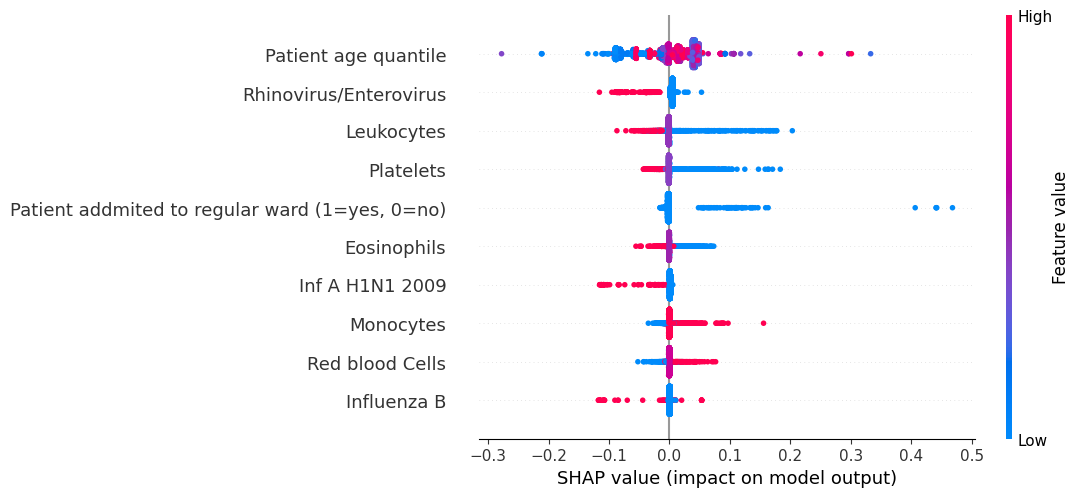
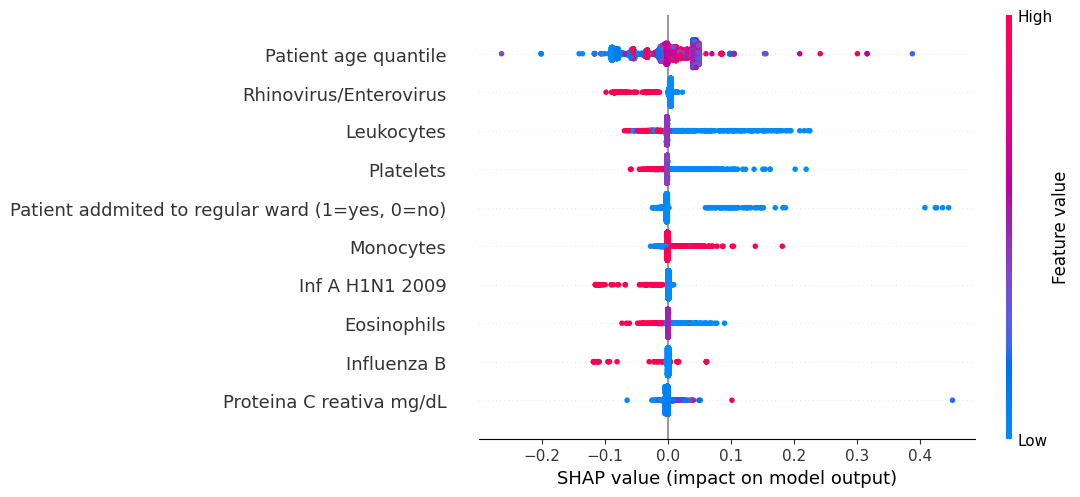
resolvendo '<1000'

diff --git a/questao1_ana_marcella.py b/questao1_ana_marcella.py
@@ -11,6 +11,7 @@
 
 import pandas as pd
 import numpy as np
+import random
 
 #Importação dos dados obtidos na planilha baixada do keggel
 dataset = pd.read_excel(r'dataset.xlsx')
@@ -25,47 +26,15 @@ dataset= dataset.replace(['absent'], float(0))
 dataset= dataset.replace(['present'], float(1))
 dataset = dataset.replace(['normal'], float(0))
 dataset = dataset.replace(['Não Realizado'], float(-1))
+dataset = dataset.replace(['<1000'], float(random.uniform(0,999)))
 
 
 #Preenchimento de valores vazios
 dataset=dataset.fillna(dataset.median ())
 
-# print(dataset["Lipase dosage"].unique())
+print(dataset["Urine - Leukocytes"].unique())
 
 #Setando valores de Feature set (conjunto de variáveis) e labels
-# X = dataset.loc[:, ["Hemoglobin", "Red blood Cells", "Lymphocytes", "Proteina C reativa mg/dL", "Alanine transaminase", "Aspartate transaminase", "Lactic Dehydrogenase", "Albumin", "Hb saturation (arterial blood gases)", "pCO2 (arterial blood gas analysis)"]]
-# X = dataset.loc[:, ["Patient age quantile", "Patient addmited to regular ward (1=yes, 0=no)", "Patient addmited to semi-intensive unit (1=yes, 0=no)", "Patient addmited to intensive care unit (1=yes, 0=no)", "Hematocrit", "Hemoglobin", "Platelets", "Mean platelet volume ", "Red blood Cells", "Lymphocytes"]]
-# X = dataset.loc[:, ["Mean corpuscular hemoglobin concentration (MCHC)", "Leukocytes", "Basophils", "Mean corpuscular hemoglobin (MCH)", "Eosinophils", "Mean corpuscular volume (MCV)", "Monocytes", "Red blood cell distribution width (RDW)", "Serum Glucose", "Respiratory Syncytial Virus"]]
-# X = dataset.loc[:, ["Influenza A", "Influenza B", "Parainfluenza 1", "CoronavirusNL63", "Rhinovirus/Enterovirus", "Mycoplasma pneumoniae", "Coronavirus HKU1", "Parainfluenza 3", "Chlamydophila pneumoniae", "Adenovirus"]]    # ERRO
-# X = dataset.loc[:, ["Parainfluenza 4", "Coronavirus229E", "CoronavirusOC43", "Inf A H1N1 2009", "Bordetella pertussis", "Metapneumovirus", "Parainfluenza 2", "Neutrophils", "Urea", "Proteina C reativa mg/dL"]]
-# X = dataset.loc[:, ["Creatinine", "Potassium", "Sodium", "Influenza B, rapid test", "Influenza A, rapid test", "Alanine transaminase", "Aspartate transaminase", "Gamma-glutamyltransferase ", "Total Bilirubin", "Direct Bilirubin"]]
-# X = dataset.loc[:, ["Indirect Bilirubin", "Alkaline phosphatase", "Ionized calcium ", "Strepto A", "Magnesium", "pCO2 (venous blood gas analysis)", "Hb saturation (venous blood gas analysis)", "Base excess (venous blood gas analysis)", "pO2 (venous blood gas analysis)", "Fio2 (venous blood gas analysis)"]]
-# X = dataset.loc[:, ["Total CO2 (venous blood gas analysis)", "pH (venous blood gas analysis)", "HCO3 (venous blood gas analysis)", "Rods #", "Segmented", "Promyelocytes", "Metamyelocytes", "Myelocytes", "Myeloblasts", "Urine - Esterase"]]
-# X = dataset.loc[:, ["Urine - Aspect", "Urine - pH", "Urine - Hemoglobin", "Urine - Bile pigments", "Urine - Ketone Bodies", "Urine - Nitrite", "Urine - Density", "Urine - Urobilinogen", "Urine - Protein", "Urine - Sugar"]]
-# X = dataset.loc[:, ["Urine - Leukocytes", "Urine - Crystals", "Urine - Red blood cells", "Urine - Hyaline cylinders", "Urine - Granular cylinders", "Urine - Yeasts", "Urine - Color", "Partial thromboplastin time (PTT) ", "Relationship (Patient/Normal)", "International normalized ratio (INR)"]]
-# X = dataset.loc[:, ["Lactic Dehydrogenase", "Prothrombin time (PT), Activity", "Vitamin B12", "Creatine phosphokinase (CPK) ", "Ferritin", "Arterial Lactic Acid", "Lipase dosage", "D-Dimer", "Albumin", "Hb saturation (arterial blood gases)"]]
-# X = dataset.loc[:, ["pCO2 (arterial blood gas analysis)", "Base excess (arterial blood gas analysis)", "pH (arterial blood gas analysis)", "Total CO2 (arterial blood gas analysis)", "HCO3 (arterial blood gas analysis)", "pO2 (arterial blood gas analysis)", "Arteiral Fio2", "Phosphor", "ctO2 (arterial blood gas analysis)"]]
-# X = dataset.loc[:, ["Neutrophils", "Urea", "Proteina C reativa mg/dL", "Creatinine", "Potassium", "Sodium", "Alanine transaminase", "Aspartate transaminase", "Gamma-glutamyltransferase ", "Total Bilirubin"]]
-# X = dataset.loc[:, ["Mean corpuscular hemoglobin concentration (MCHC)", "Leukocytes", "Basophils", "Mean corpuscular hemoglobin (MCH)", "Eosinophils", "Mean corpuscular volume (MCV)", "Monocytes", "Red blood cell distribution width (RDW)", "Serum Glucose", "pCO2 (arterial blood gas analysis)"]]
-# X = dataset.loc[:, ["Patient age quantile", "Patient addmited to semi-intensive unit (1=yes, 0=no)", "Patient addmited to intensive care unit (1=yes, 0=no)", "Hematocrit", "Hemoglobin", "Platelets", "Mean platelet volume ", "Red blood Cells", "Lymphocytes", "Indirect Bilirubin", "Alkaline phosphatase"]]
-# X = dataset.loc[:, ["Ionized calcium ", "Magnesium", "pCO2 (venous blood gas analysis)", "Hb saturation (venous blood gas analysis)", "Base excess (venous blood gas analysis)", "pO2 (venous blood gas analysis)", "Base excess (arterial blood gas analysis)", "pH (arterial blood gas analysis)", "Total CO2 (arterial blood gas analysis)", "HCO3 (arterial blood gas analysis)"]]
-# X = dataset.loc[:, ["pO2 (arterial blood gas analysis)", "ctO2 (arterial blood gas analysis)", "Neutrophils", "Urea", "Proteina C reativa mg/dL", "Creatinine", "Potassium", "Sodium", "Alanine transaminase", "Aspartate transaminase"]]
-# X = dataset.loc[:, ["Mean corpuscular hemoglobin concentration (MCHC)", "Leukocytes", "Basophils", "Mean corpuscular hemoglobin (MCH)", "Eosinophils", "Mean corpuscular volume (MCV)", "Monocytes", "Red blood cell distribution width (RDW)", "Gamma-glutamyltransferase ", "Total Bilirubin"]]
-# X = dataset.loc[:, ["Ionized calcium ", "Magnesium", "pCO2 (venous blood gas analysis)", "Hb saturation (venous blood gas analysis)", "Base excess (venous blood gas analysis)", "pO2 (venous blood gas analysis)", "pH (arterial blood gas analysis)", "Total CO2 (arterial blood gas analysis)", "HCO3 (arterial blood gas analysis)", "Aspartate transaminase"]]
-# X = dataset.loc[:, ["ctO2 (arterial blood gas analysis)", "Neutrophils", "pCO2 (venous blood gas analysis)", "Hb saturation (venous blood gas analysis)", "Base excess (venous blood gas analysis)", "pO2 (venous blood gas analysis)", "pH (arterial blood gas analysis)", "Total CO2 (arterial blood gas analysis)", "HCO3 (arterial blood gas analysis)", "Aspartate transaminase"]]
-# X = dataset.loc[:, ["Urea", "ctO2 (arterial blood gas analysis)", "Neutrophils", "pCO2 (venous blood gas analysis)", "Hb saturation (venous blood gas analysis)", "Base excess (venous blood gas analysis)", "pO2 (venous blood gas analysis)", "pH (arterial blood gas analysis)", "Total CO2 (arterial blood gas analysis)", "Aspartate transaminase"]]
-# X = dataset.loc[:, ["Proteina C reativa mg/dL", "Urea", "ctO2 (arterial blood gas analysis)", "Neutrophils", "pCO2 (venous blood gas analysis)", "Hb saturation (venous blood gas analysis)", "Base excess (venous blood gas analysis)", "pH (arterial blood gas analysis)", "Total CO2 (arterial blood gas analysis)", "Aspartate transaminase"]]
-# X = dataset.loc[:, ["Hemoglobin", "Red blood Cells", "Lymphocytes", "Proteina C reativa mg/dL", "Alanine transaminase", "Aspartate transaminase", "Lactic Dehydrogenase", "Hb saturation (arterial blood gases)", "Creatinine", "Potassium"]]
-# X = dataset.loc[:, ["Sodium", "Hemoglobin", "Red blood Cells", "Lymphocytes", "Proteina C reativa mg/dL", "Alanine transaminase", "Aspartate transaminase", "Hb saturation (arterial blood gases)", "Creatinine", "Potassium"]]
-# X = dataset.loc[:, ["Mean corpuscular hemoglobin concentration (MCHC)", "Leukocytes", "Basophils", "Mean corpuscular hemoglobin (MCH)", "Eosinophils", "Hb saturation (venous blood gas analysis)", "Base excess (venous blood gas analysis)", "pH (arterial blood gas analysis)", "Total CO2 (arterial blood gas analysis)", "Aspartate transaminase"]]
-# X = dataset.loc[:, ["Proteina C reativa mg/dL", "Urea", "ctO2 (arterial blood gas analysis)", "Neutrophils", "pCO2 (venous blood gas analysis)", "Mean corpuscular volume (MCV)", "Monocytes", "Red blood cell distribution width (RDW)", "Gamma-glutamyltransferase ", "Total Bilirubin"]]
-# X = dataset.loc[:, ["Alanine transaminase", "Hemoglobin", "Red blood Cells", "Lymphocytes", "Proteina C reativa mg/dL", "Platelets", "Mean platelet volume ", "Red blood Cells", "Lymphocytes", "Alkaline phosphatase"]]
-# X = dataset.loc[:, ["Sodium", "Alanine transaminase", "Hemoglobin", "Red blood Cells", "Lymphocytes", "Proteina C reativa mg/dL", "Platelets", "Mean platelet volume ", "Red blood Cells", "Lymphocytes"]]
-# X = dataset.loc[:, ["Patient age quantile", "Patient addmited to semi-intensive unit (1=yes, 0=no)", "Patient addmited to intensive care unit (1=yes, 0=no)", "Hematocrit", "Hemoglobin", "Alanine transaminase", "Aspartate transaminase", "Hb saturation (arterial blood gases)", "Creatinine", "Potassium"]]
-# X = dataset.loc[:, ["Patient age quantile", "Hematocrit", "Proteina C reativa mg/dL", "Platelets", "Proteina C reativa mg/dL", "Red blood Cells", "Monocytes", "Leukocytes", "Eosinophils", "Hemoglobin"]]
-# X = dataset.loc[:, ["Mean corpuscular hemoglobin concentration (MCHC)", "Leukocytes", "Basophils", "Mean corpuscular hemoglobin (MCH)", "Eosinophils", "Hb saturation (venous blood gas analysis)", "Base excess (venous blood gas analysis)", "pH (arterial blood gas analysis)", "Total CO2 (arterial blood gas analysis)", "Aspartate transaminase", "Proteina C reativa mg/dL", "Urea", "ctO2 (arterial blood gas analysis)", "Neutrophils", "pCO2 (venous blood gas analysis)", "Mean corpuscular volume (MCV)", "Monocytes", "Red blood cell distribution width (RDW)", "Gamma-glutamyltransferase ", "Total Bilirubin", "Sodium", "Alanine transaminase", "Hemoglobin", "Red blood Cells", "Lymphocytes", "Proteina C reativa mg/dL", "Platelets", "Mean platelet volume ", "Red blood Cells", "Lymphocytes", "Patient age quantile", "Patient addmited to semi-intensive unit (1=yes, 0=no)", "Patient addmited to intensive care unit (1=yes, 0=no)", "Hematocrit", "Hemoglobin", "Alanine transaminase", "Aspartate transaminase", "Hb saturation (arterial blood gases)", "Creatinine", "Potassium"]]
-# X = dataset.loc[:, ["Influenza A", "Influenza B", "Parainfluenza 1", "CoronavirusNL63", "Rhinovirus/Enterovirus",  "Coronavirus HKU1", "Parainfluenza 3", "Chlamydophila pneumoniae", "Adenovirus"]]
-
 X = dataset.loc[:, ["Patient age quantile", "Patient addmited to regular ward (1=yes, 0=no)", "Patient addmited to semi-intensive unit (1=yes, 0=no)", "Patient addmited to intensive care unit (1=yes, 0=no)", "Hematocrit", "Hemoglobin", "Platelets", "Mean platelet volume ", "Red blood Cells", "Lymphocytes", 
         "Mean corpuscular hemoglobin concentration (MCHC)", "Leukocytes", "Basophils", "Mean corpuscular hemoglobin (MCH)", "Eosinophils", "Mean corpuscular volume (MCV)", "Monocytes", "Red blood cell distribution width (RDW)", "Serum Glucose", "Respiratory Syncytial Virus", "Influenza A",
         "Influenza B", "Parainfluenza 1", "CoronavirusNL63", "Rhinovirus/Enterovirus",  "Coronavirus HKU1", "Parainfluenza 3", "Chlamydophila pneumoniae", "Adenovirus", "Parainfluenza 4", "Coronavirus229E", "CoronavirusOC43", "Inf A H1N1 2009", "Bordetella pertussis", "Metapneumovirus", 
@@ -74,7 +43,7 @@ X = dataset.loc[:, ["Patient age quantile", "Patient addmited to regular ward (1
         "Total CO2 (venous blood gas analysis)", "pH (venous blood gas analysis)", "HCO3 (venous blood gas analysis)", "Rods #", "Segmented", "Promyelocytes", "Metamyelocytes", "Myelocytes", "Myeloblasts", "Urine - Esterase", "Urine - pH", "Urine - Yeasts", "Urine - Granular cylinders",
         "Urine - Hyaline cylinders", "Urine - Hemoglobin", "Urine - Bile pigments", "Urine - Ketone Bodies", "Urine - Nitrite", "Urine - Urobilinogen", "Urine - Protein","Urine - Density", "Relationship (Patient/Normal)", "International normalized ratio (INR)", "Urine - Red blood cells",
         "Lactic Dehydrogenase", "Creatine phosphokinase (CPK) ", "Ferritin", "Vitamin B12", "Arterial Lactic Acid", "Lipase dosage", "pCO2 (arterial blood gas analysis)", "Base excess (arterial blood gas analysis)", "pH (arterial blood gas analysis)", "Total CO2 (arterial blood gas analysis)",
-        "HCO3 (arterial blood gas analysis)", "pO2 (arterial blood gas analysis)", "Arteiral Fio2", "Phosphor", "ctO2 (arterial blood gas analysis)"]]
+        "HCO3 (arterial blood gas analysis)", "pO2 (arterial blood gas analysis)", "Arteiral Fio2", "Phosphor", "ctO2 (arterial blood gas analysis)", "Urine - Leukocytes"]]
 
 y = dataset.loc[:, "SARS-Cov-2 exam result"]
 
@@ -110,39 +79,6 @@ shap.initjs()
 explainer = shap.TreeExplainer(rf)
 shap_values = explainer.shap_values(X_train, approximate=True)
 
-# nomes = ["Hemoglobin", "Red blood Cells", "Lymphocytes", "Proteina C reativa mg/dL", "Alanine transaminase", "Aspartate transaminase", "Lactic Dehydrogenase", "Albumin", "Hb saturation (arterial blood gases)", "pCO2 (arterial blood gas analysis)"]
-# nomes = ["Patient age quantile", "Patient addmited to regular ward (1=yes, 0=no)", "Patient addmited to semi-intensive unit (1=yes, 0=no)", "Patient addmited to intensive care unit (1=yes, 0=no)", "Hematocrit", "Hemoglobin", "Platelets", "Mean platelet volume", "Red blood Cells", "Lymphocytes"]
-# nomes = ["Mean corpuscular hemoglobin concentration (MCHC)", "Leukocytes", "Basophils", "Mean corpuscular hemoglobin (MCH)", "Eosinophils", "Mean corpuscular volume (MCV)", "Monocytes", "Red blood cell distribution width (RDW)", "Serum Glucose", "Respiratory Syncytial Virus"]
-# nomes = ["Influenza A", "Influenza B", "Parainfluenza 1", "CoronavirusNL63", "Rhinovirus/Enterovirus", "Mycoplasma pneumoniae", "Coronavirus HKU1", "Parainfluenza 3", "Chlamydophila pneumoniae", "Adenovirus"]    # ERRO
-# nomes = ["Parainfluenza 4", "Coronavirus229E", "CoronavirusOC43", "Inf A H1N1 2009", "Bordetella pertussis", "Metapneumovirus", "Parainfluenza 2", "Neutrophils", "Urea", "Proteina C reativa mg/dL"]
-# nomes = ["Creatinine", "Potassium", "Sodium", "Influenza B, rapid test", "Influenza A, rapid test", "Alanine transaminase", "Aspartate transaminase", "Gamma-glutamyltransferase ", "Total Bilirubin", "Direct Bilirubin"]
-# nomes = ["Indirect Bilirubin", "Alkaline phosphatase", "Ionized calcium ", "Strepto A", "Magnesium", "pCO2 (venous blood gas analysis)", "Hb saturation (venous blood gas analysis)", "Base excess (venous blood gas analysis)", "pO2 (venous blood gas analysis)", "Fio2 (venous blood gas analysis)"]
-# nomes = ["Total CO2 (venous blood gas analysis)", "pH (venous blood gas analysis)", "HCO3 (venous blood gas analysis)", "Rods #", "Segmented", "Promyelocytes", "Metamyelocytes", "Myelocytes", "Myeloblasts", "Urine - Esterase"]    # ERRO
-# nomes = ["Urine - Aspect", "Urine - pH", "Urine - Hemoglobin", "Urine - Bile pigments", "Urine - Ketone Bodies", "Urine - Nitrite", "Urine - Density", "Urine - Urobilinogen", "Urine - Protein", "Urine - Sugar"]    # ERRO
-# nomes = ["Urine - Leukocytes", "Urine - Crystals", "Urine - Red blood cells", "Urine - Hyaline cylinders", "Urine - Granular cylinders", "Urine - Yeasts", "Urine - Color", "Partial thromboplastin time (PTT) ", "Relationship (Patient/Normal)", "International normalized ratio (INR)"]    # ERRO
-# nomes = ["Lactic Dehydrogenase", "Prothrombin time (PT), Activity", "Vitamin B12", "Creatine phosphokinase (CPK) ", "Ferritin", "Arterial Lactic Acid", "Lipase dosage", "D-Dimer", "Albumin", "Hb saturation (arterial blood gases)"]  # ERRO
-# nomes = ["pCO2 (arterial blood gas analysis)", "Base excess (arterial blood gas analysis)", "pH (arterial blood gas analysis)", "Total CO2 (arterial blood gas analysis)", "HCO3 (arterial blood gas analysis)", "pO2 (arterial blood gas analysis)", "Arteiral Fio2", "Phosphor", "ctO2 (arterial blood gas analysis)"]
-# nomes = ["Neutrophils", "Urea", "Proteina C reativa mg/dL", "Creatinine", "Potassium", "Sodium", "Alanine transaminase", "Aspartate transaminase", "Gamma-glutamyltransferase ", "Total Bilirubin"]
-# nomes = ["Mean corpuscular hemoglobin concentration (MCHC)", "Leukocytes", "Basophils", "Mean corpuscular hemoglobin (MCH)", "Eosinophils", "Mean corpuscular volume (MCV)", "Monocytes", "Red blood cell distribution width (RDW)", "Serum Glucose", "pCO2 (arterial blood gas analysis)"]
-# nomes = ["Patient age quantile", "Patient addmited to semi-intensive unit (1=yes, 0=no)", "Patient addmited to intensive care unit (1=yes, 0=no)", "Hematocrit", "Hemoglobin", "Platelets", "Mean platelet volume ", "Red blood Cells", "Lymphocytes", "Indirect Bilirubin", "Alkaline phosphatase"]
-# nomes = ["Ionized calcium ", "Magnesium", "pCO2 (venous blood gas analysis)", "Hb saturation (venous blood gas analysis)", "Base excess (venous blood gas analysis)", "pO2 (venous blood gas analysis)", "Base excess (arterial blood gas analysis)", "pH (arterial blood gas analysis)", "Total CO2 (arterial blood gas analysis)", "HCO3 (arterial blood gas analysis)"]
-# nomes = ["pO2 (arterial blood gas analysis)", "ctO2 (arterial blood gas analysis)", "Neutrophils", "Urea", "Proteina C reativa mg/dL", "Creatinine", "Potassium", "Sodium", "Alanine transaminase", "Aspartate transaminase"]
-# nomes = ["Mean corpuscular hemoglobin concentration (MCHC)", "Leukocytes", "Basophils", "Mean corpuscular hemoglobin (MCH)", "Eosinophils", "Mean corpuscular volume (MCV)", "Monocytes", "Red blood cell distribution width (RDW)", "Gamma-glutamyltransferase ", "Total Bilirubin"]
-# nomes = ["Ionized calcium ", "Magnesium", "pCO2 (venous blood gas analysis)", "Hb saturation (venous blood gas analysis)", "Base excess (venous blood gas analysis)", "pO2 (venous blood gas analysis)", "pH (arterial blood gas analysis)", "Total CO2 (arterial blood gas analysis)", "HCO3 (arterial blood gas analysis)", "Aspartate transaminase"]
-# nomes = ["ctO2 (arterial blood gas analysis)", "Neutrophils", "pCO2 (venous blood gas analysis)", "Hb saturation (venous blood gas analysis)", "Base excess (venous blood gas analysis)", "pO2 (venous blood gas analysis)", "pH (arterial blood gas analysis)", "Total CO2 (arterial blood gas analysis)", "HCO3 (arterial blood gas analysis)", "Aspartate transaminase"]
-# nomes = ["Urea", "ctO2 (arterial blood gas analysis)", "Neutrophils", "pCO2 (venous blood gas analysis)", "Hb saturation (venous blood gas analysis)", "Base excess (venous blood gas analysis)", "pO2 (venous blood gas analysis)", "pH (arterial blood gas analysis)", "Total CO2 (arterial blood gas analysis)", "Aspartate transaminase"]
-# nomes = ["Proteina C reativa mg/dL", "Urea", "ctO2 (arterial blood gas analysis)", "Neutrophils", "pCO2 (venous blood gas analysis)", "Hb saturation (venous blood gas analysis)", "Base excess (venous blood gas analysis)", "pH (arterial blood gas analysis)", "Total CO2 (arterial blood gas analysis)", "Aspartate transaminase"]
-# nomes = ["Hemoglobin", "Red blood Cells", "Lymphocytes", "Proteina C reativa mg/dL", "Alanine transaminase", "Aspartate transaminase", "Lactic Dehydrogenase", "Hb saturation (arterial blood gases)", "Creatinine", "Potassium"]
-# nomes = ["Sodium", "Hemoglobin", "Red blood Cells", "Lymphocytes", "Proteina C reativa mg/dL", "Alanine transaminase", "Aspartate transaminase", "Hb saturation (arterial blood gases)", "Creatinine", "Potassium"]
-# nomes = ["Mean corpuscular hemoglobin concentration (MCHC)", "Leukocytes", "Basophils", "Mean corpuscular hemoglobin (MCH)", "Eosinophils", "Hb saturation (venous blood gas analysis)", "Base excess (venous blood gas analysis)", "pH (arterial blood gas analysis)", "Total CO2 (arterial blood gas analysis)", "Aspartate transaminase"]
-# nomes = ["Proteina C reativa mg/dL", "Urea", "ctO2 (arterial blood gas analysis)", "Neutrophils", "pCO2 (venous blood gas analysis)", "Mean corpuscular volume (MCV)", "Monocytes", "Red blood cell distribution width (RDW)", "Gamma-glutamyltransferase ", "Total Bilirubin"]
-# nomes = ["Alanine transaminase", "Hemoglobin", "Red blood Cells", "Lymphocytes", "Proteina C reativa mg/dL", "Platelets", "Mean platelet volume ", "Red blood Cells", "Lymphocytes", "Alkaline phosphatase"]
-# nomes = ["Sodium", "Alanine transaminase", "Hemoglobin", "Red blood Cells", "Lymphocytes", "Proteina C reativa mg/dL", "Platelets", "Mean platelet volume ", "Red blood Cells", "Lymphocytes"]
-# nomes = ["Patient age quantile", "Patient addmited to semi-intensive unit (1=yes, 0=no)", "Patient addmited to intensive care unit (1=yes, 0=no)", "Hematocrit", "Hemoglobin", "Alanine transaminase", "Aspartate transaminase", "Hb saturation (arterial blood gases)", "Creatinine", "Potassium"]
-# nomes = ["Patient age quantile", "Hematocrit", "Proteina C reativa mg/dL", "Platelets", "Proteina C reativa mg/dL", "Red blood Cells", "Monocytes", "Leukocytes", "Eosinophils", "Hemoglobin"]
-# nomes = ["Mean corpuscular hemoglobin concentration (MCHC)", "Leukocytes", "Basophils", "Mean corpuscular hemoglobin (MCH)", "Eosinophils", "Hb saturation (venous blood gas analysis)", "Base excess (venous blood gas analysis)", "pH (arterial blood gas analysis)", "Total CO2 (arterial blood gas analysis)", "Aspartate transaminase", "Proteina C reativa mg/dL", "Urea", "ctO2 (arterial blood gas analysis)", "Neutrophils", "pCO2 (venous blood gas analysis)", "Mean corpuscular volume (MCV)", "Monocytes", "Red blood cell distribution width (RDW)", "Gamma-glutamyltransferase ", "Total Bilirubin", "Sodium", "Alanine transaminase", "Hemoglobin", "Red blood Cells", "Lymphocytes", "Proteina C reativa mg/dL", "Platelets", "Mean platelet volume ", "Red blood Cells", "Lymphocytes", "Patient age quantile", "Patient addmited to semi-intensive unit (1=yes, 0=no)", "Patient addmited to intensive care unit (1=yes, 0=no)", "Hematocrit", "Hemoglobin", "Alanine transaminase", "Aspartate transaminase", "Hb saturation (arterial blood gases)", "Creatinine", "Potassium"]
-# nomes = ["Influenza A", "Influenza B", "Parainfluenza 1", "CoronavirusNL63", "Rhinovirus/Enterovirus",  "Coronavirus HKU1", "Parainfluenza 3", "Chlamydophila pneumoniae", "Adenovirus"]
-
 nomes = ["Patient age quantile", "Patient addmited to regular ward (1=yes, 0=no)", "Patient addmited to semi-intensive unit (1=yes, 0=no)", "Patient addmited to intensive care unit (1=yes, 0=no)", "Hematocrit", "Hemoglobin", "Platelets", "Mean platelet volume ", "Red blood Cells", "Lymphocytes", 
         "Mean corpuscular hemoglobin concentration (MCHC)", "Leukocytes", "Basophils", "Mean corpuscular hemoglobin (MCH)", "Eosinophils", "Mean corpuscular volume (MCV)", "Monocytes", "Red blood cell distribution width (RDW)", "Serum Glucose", "Respiratory Syncytial Virus", "Influenza A",
         "Influenza B", "Parainfluenza 1", "CoronavirusNL63", "Rhinovirus/Enterovirus",  "Coronavirus HKU1", "Parainfluenza 3", "Chlamydophila pneumoniae", "Adenovirus", "Parainfluenza 4", "Coronavirus229E", "CoronavirusOC43", "Inf A H1N1 2009", "Bordetella pertussis", "Metapneumovirus", 
@@ -151,9 +87,9 @@ nomes = ["Patient age quantile", "Patient addmited to regular ward (1=yes, 0=no)
         "Total CO2 (venous blood gas analysis)", "pH (venous blood gas analysis)", "HCO3 (venous blood gas analysis)", "Rods #", "Segmented", "Promyelocytes", "Metamyelocytes", "Myelocytes", "Myeloblasts", "Urine - Esterase", "Urine - pH", "Urine - Yeasts", "Urine - Granular cylinders",
         "Urine - Hyaline cylinders", "Urine - Hemoglobin", "Urine - Bile pigments", "Urine - Ketone Bodies", "Urine - Nitrite", "Urine - Urobilinogen", "Urine - Protein","Urine - Density", "Relationship (Patient/Normal)", "International normalized ratio (INR)", "Urine - Red blood cells",
         "Lactic Dehydrogenase", "Creatine phosphokinase (CPK) ", "Ferritin", "Vitamin B12", "Arterial Lactic Acid", "Lipase dosage", "pCO2 (arterial blood gas analysis)", "Base excess (arterial blood gas analysis)", "pH (arterial blood gas analysis)", "Total CO2 (arterial blood gas analysis)",
-        "HCO3 (arterial blood gas analysis)", "pO2 (arterial blood gas analysis)", "Arteiral Fio2", "Phosphor", "ctO2 (arterial blood gas analysis)"]
+        "HCO3 (arterial blood gas analysis)", "pO2 (arterial blood gas analysis)", "Arteiral Fio2", "Phosphor", "ctO2 (arterial blood gas analysis)", "Urine - Leukocytes"]
 
 #Plota gráfico, salvo na mesma pasta do código
 shap.summary_plot(shap_values[1], X_train, show=False, max_display=10, feature_names=nomes)
-plt.savefig('exam_all.png', bbox_inches='tight')
+plt.savefig('exam_all_all.png', bbox_inches='tight')
 

diff --git a/test_arrays.py b/test_arrays.py
@@ -18,14 +18,14 @@ X = dataset.loc[:, ["Mean corpuscular hemoglobin concentration (MCHC)", "Leukoc
 ["Urine - Aspect", "Urine - Crystals", "Urine - Color"]    # ERRO
 
 # problemas com NaN
-["Urine - Leukocytes", "D-Dimer", "Mycoplasma pneumoniae", "Urine - Sugar", "Partial thromboplastin time (PTT) ", "Prothrombin time (PT), Activity"]
+["D-Dimer", "Mycoplasma pneumoniae", "Urine - Sugar", "Partial thromboplastin time (PTT) ", "Prothrombin time (PT), Activity"]
 
 
 
 # colunas OK para teste
 nomes = ["Patient age quantile", "Patient addmited to regular ward (1=yes, 0=no)", "Patient addmited to semi-intensive unit (1=yes, 0=no)", "Patient addmited to intensive care unit (1=yes, 0=no)", "Hematocrit", "Hemoglobin", "Platelets", "Mean platelet volume ", "Red blood Cells", "Lymphocytes"]
 nomes = ["Mean corpuscular hemoglobin concentration (MCHC)", "Leukocytes", "Basophils", "Mean corpuscular hemoglobin (MCH)", "Eosinophils", "Mean corpuscular volume (MCV)", "Monocytes", "Red blood cell distribution width (RDW)", "Serum Glucose", "Respiratory Syncytial Virus"]
-nomes = ["Influenza A", "Influenza B", "Parainfluenza 1", "CoronavirusNL63", "Rhinovirus/Enterovirus",  "Coronavirus HKU1", "Parainfluenza 3", "Chlamydophila pneumoniae", "Adenovirus"]
+nomes = ["Urine - Leukocytes", "Influenza A", "Influenza B", "Parainfluenza 1", "CoronavirusNL63", "Rhinovirus/Enterovirus",  "Coronavirus HKU1", "Parainfluenza 3", "Chlamydophila pneumoniae", "Adenovirus"]
 nomes = ["Parainfluenza 4", "Coronavirus229E", "CoronavirusOC43", "Inf A H1N1 2009", "Bordetella pertussis", "Metapneumovirus", "Parainfluenza 2", "Neutrophils", "Urea", "Proteina C reativa mg/dL"]
 nomes = ["Creatinine", "Potassium", "Sodium", "Influenza B, rapid test", "Influenza A, rapid test", "Alanine transaminase", "Aspartate transaminase", "Gamma-glutamyltransferase ", "Total Bilirubin", "Direct Bilirubin"]
 nomes = ["Indirect Bilirubin", "Alkaline phosphatase", "Ionized calcium ", "Strepto A", "Magnesium", "pCO2 (venous blood gas analysis)", "Hb saturation (venous blood gas analysis)", "Base excess (venous blood gas analysis)", "pO2 (venous blood gas analysis)", "Fio2 (venous blood gas analysis)"]
@@ -41,4 +41,75 @@ nomes = ["Patient age quantile", "Patient addmited to regular ward (1=yes, 0=no)
         "Total CO2 (venous blood gas analysis)", "pH (venous blood gas analysis)", "HCO3 (venous blood gas analysis)", "Rods #", "Segmented", "Promyelocytes", "Metamyelocytes", "Myelocytes", "Myeloblasts", "Urine - Esterase", "Urine - pH", "Urine - Yeasts", "Urine - Granular cylinders",
         "Urine - Hyaline cylinders", "Urine - Hemoglobin", "Urine - Bile pigments", "Urine - Ketone Bodies", "Urine - Nitrite", "Urine - Urobilinogen", "Urine - Protein","Urine - Density", "Relationship (Patient/Normal)", "International normalized ratio (INR)", "Urine - Red blood cells",
         "Lactic Dehydrogenase", "Creatine phosphokinase (CPK) ", "Ferritin", "Vitamin B12", "Arterial Lactic Acid", "Lipase dosage", "pCO2 (arterial blood gas analysis)", "Base excess (arterial blood gas analysis)", "pH (arterial blood gas analysis)", "Total CO2 (arterial blood gas analysis)",
-        "HCO3 (arterial blood gas analysis)", "pO2 (arterial blood gas analysis)", "Arteiral Fio2", "Phosphor", "ctO2 (arterial blood gas analysis)"]
+        "HCO3 (arterial blood gas analysis)", "pO2 (arterial blood gas analysis)", "Arteiral Fio2", "Phosphor", "ctO2 (arterial blood gas analysis)", "Urine - Leukocytes"]
+
+
+
+
+        #############################################################################################################################################################################################################################################################################################################################################################################
+
+        # X = dataset.loc[:, ["Hemoglobin", "Red blood Cells", "Lymphocytes", "Proteina C reativa mg/dL", "Alanine transaminase", "Aspartate transaminase", "Lactic Dehydrogenase", "Albumin", "Hb saturation (arterial blood gases)", "pCO2 (arterial blood gas analysis)"]]
+# X = dataset.loc[:, ["Patient age quantile", "Patient addmited to regular ward (1=yes, 0=no)", "Patient addmited to semi-intensive unit (1=yes, 0=no)", "Patient addmited to intensive care unit (1=yes, 0=no)", "Hematocrit", "Hemoglobin", "Platelets", "Mean platelet volume ", "Red blood Cells", "Lymphocytes"]]
+# X = dataset.loc[:, ["Mean corpuscular hemoglobin concentration (MCHC)", "Leukocytes", "Basophils", "Mean corpuscular hemoglobin (MCH)", "Eosinophils", "Mean corpuscular volume (MCV)", "Monocytes", "Red blood cell distribution width (RDW)", "Serum Glucose", "Respiratory Syncytial Virus"]]
+# X = dataset.loc[:, ["Influenza A", "Influenza B", "Parainfluenza 1", "CoronavirusNL63", "Rhinovirus/Enterovirus", "Mycoplasma pneumoniae", "Coronavirus HKU1", "Parainfluenza 3", "Chlamydophila pneumoniae", "Adenovirus"]]    # ERRO
+# X = dataset.loc[:, ["Parainfluenza 4", "Coronavirus229E", "CoronavirusOC43", "Inf A H1N1 2009", "Bordetella pertussis", "Metapneumovirus", "Parainfluenza 2", "Neutrophils", "Urea", "Proteina C reativa mg/dL"]]
+# X = dataset.loc[:, ["Creatinine", "Potassium", "Sodium", "Influenza B, rapid test", "Influenza A, rapid test", "Alanine transaminase", "Aspartate transaminase", "Gamma-glutamyltransferase ", "Total Bilirubin", "Direct Bilirubin"]]
+# X = dataset.loc[:, ["Indirect Bilirubin", "Alkaline phosphatase", "Ionized calcium ", "Strepto A", "Magnesium", "pCO2 (venous blood gas analysis)", "Hb saturation (venous blood gas analysis)", "Base excess (venous blood gas analysis)", "pO2 (venous blood gas analysis)", "Fio2 (venous blood gas analysis)"]]
+# X = dataset.loc[:, ["Total CO2 (venous blood gas analysis)", "pH (venous blood gas analysis)", "HCO3 (venous blood gas analysis)", "Rods #", "Segmented", "Promyelocytes", "Metamyelocytes", "Myelocytes", "Myeloblasts", "Urine - Esterase"]]
+# X = dataset.loc[:, ["Urine - Aspect", "Urine - pH", "Urine - Hemoglobin", "Urine - Bile pigments", "Urine - Ketone Bodies", "Urine - Nitrite", "Urine - Density", "Urine - Urobilinogen", "Urine - Protein", "Urine - Sugar"]]
+# X = dataset.loc[:, ["Urine - Leukocytes", "Urine - Crystals", "Urine - Red blood cells", "Urine - Hyaline cylinders", "Urine - Granular cylinders", "Urine - Yeasts", "Urine - Color", "Partial thromboplastin time (PTT) ", "Relationship (Patient/Normal)", "International normalized ratio (INR)"]]
+# X = dataset.loc[:, ["Lactic Dehydrogenase", "Prothrombin time (PT), Activity", "Vitamin B12", "Creatine phosphokinase (CPK) ", "Ferritin", "Arterial Lactic Acid", "Lipase dosage", "D-Dimer", "Albumin", "Hb saturation (arterial blood gases)"]]
+# X = dataset.loc[:, ["pCO2 (arterial blood gas analysis)", "Base excess (arterial blood gas analysis)", "pH (arterial blood gas analysis)", "Total CO2 (arterial blood gas analysis)", "HCO3 (arterial blood gas analysis)", "pO2 (arterial blood gas analysis)", "Arteiral Fio2", "Phosphor", "ctO2 (arterial blood gas analysis)"]]
+# X = dataset.loc[:, ["Neutrophils", "Urea", "Proteina C reativa mg/dL", "Creatinine", "Potassium", "Sodium", "Alanine transaminase", "Aspartate transaminase", "Gamma-glutamyltransferase ", "Total Bilirubin"]]
+# X = dataset.loc[:, ["Mean corpuscular hemoglobin concentration (MCHC)", "Leukocytes", "Basophils", "Mean corpuscular hemoglobin (MCH)", "Eosinophils", "Mean corpuscular volume (MCV)", "Monocytes", "Red blood cell distribution width (RDW)", "Serum Glucose", "pCO2 (arterial blood gas analysis)"]]
+# X = dataset.loc[:, ["Patient age quantile", "Patient addmited to semi-intensive unit (1=yes, 0=no)", "Patient addmited to intensive care unit (1=yes, 0=no)", "Hematocrit", "Hemoglobin", "Platelets", "Mean platelet volume ", "Red blood Cells", "Lymphocytes", "Indirect Bilirubin", "Alkaline phosphatase"]]
+# X = dataset.loc[:, ["Ionized calcium ", "Magnesium", "pCO2 (venous blood gas analysis)", "Hb saturation (venous blood gas analysis)", "Base excess (venous blood gas analysis)", "pO2 (venous blood gas analysis)", "Base excess (arterial blood gas analysis)", "pH (arterial blood gas analysis)", "Total CO2 (arterial blood gas analysis)", "HCO3 (arterial blood gas analysis)"]]
+# X = dataset.loc[:, ["pO2 (arterial blood gas analysis)", "ctO2 (arterial blood gas analysis)", "Neutrophils", "Urea", "Proteina C reativa mg/dL", "Creatinine", "Potassium", "Sodium", "Alanine transaminase", "Aspartate transaminase"]]
+# X = dataset.loc[:, ["Mean corpuscular hemoglobin concentration (MCHC)", "Leukocytes", "Basophils", "Mean corpuscular hemoglobin (MCH)", "Eosinophils", "Mean corpuscular volume (MCV)", "Monocytes", "Red blood cell distribution width (RDW)", "Gamma-glutamyltransferase ", "Total Bilirubin"]]
+# X = dataset.loc[:, ["Ionized calcium ", "Magnesium", "pCO2 (venous blood gas analysis)", "Hb saturation (venous blood gas analysis)", "Base excess (venous blood gas analysis)", "pO2 (venous blood gas analysis)", "pH (arterial blood gas analysis)", "Total CO2 (arterial blood gas analysis)", "HCO3 (arterial blood gas analysis)", "Aspartate transaminase"]]
+# X = dataset.loc[:, ["ctO2 (arterial blood gas analysis)", "Neutrophils", "pCO2 (venous blood gas analysis)", "Hb saturation (venous blood gas analysis)", "Base excess (venous blood gas analysis)", "pO2 (venous blood gas analysis)", "pH (arterial blood gas analysis)", "Total CO2 (arterial blood gas analysis)", "HCO3 (arterial blood gas analysis)", "Aspartate transaminase"]]
+# X = dataset.loc[:, ["Urea", "ctO2 (arterial blood gas analysis)", "Neutrophils", "pCO2 (venous blood gas analysis)", "Hb saturation (venous blood gas analysis)", "Base excess (venous blood gas analysis)", "pO2 (venous blood gas analysis)", "pH (arterial blood gas analysis)", "Total CO2 (arterial blood gas analysis)", "Aspartate transaminase"]]
+# X = dataset.loc[:, ["Proteina C reativa mg/dL", "Urea", "ctO2 (arterial blood gas analysis)", "Neutrophils", "pCO2 (venous blood gas analysis)", "Hb saturation (venous blood gas analysis)", "Base excess (venous blood gas analysis)", "pH (arterial blood gas analysis)", "Total CO2 (arterial blood gas analysis)", "Aspartate transaminase"]]
+# X = dataset.loc[:, ["Hemoglobin", "Red blood Cells", "Lymphocytes", "Proteina C reativa mg/dL", "Alanine transaminase", "Aspartate transaminase", "Lactic Dehydrogenase", "Hb saturation (arterial blood gases)", "Creatinine", "Potassium"]]
+# X = dataset.loc[:, ["Sodium", "Hemoglobin", "Red blood Cells", "Lymphocytes", "Proteina C reativa mg/dL", "Alanine transaminase", "Aspartate transaminase", "Hb saturation (arterial blood gases)", "Creatinine", "Potassium"]]
+# X = dataset.loc[:, ["Mean corpuscular hemoglobin concentration (MCHC)", "Leukocytes", "Basophils", "Mean corpuscular hemoglobin (MCH)", "Eosinophils", "Hb saturation (venous blood gas analysis)", "Base excess (venous blood gas analysis)", "pH (arterial blood gas analysis)", "Total CO2 (arterial blood gas analysis)", "Aspartate transaminase"]]
+# X = dataset.loc[:, ["Proteina C reativa mg/dL", "Urea", "ctO2 (arterial blood gas analysis)", "Neutrophils", "pCO2 (venous blood gas analysis)", "Mean corpuscular volume (MCV)", "Monocytes", "Red blood cell distribution width (RDW)", "Gamma-glutamyltransferase ", "Total Bilirubin"]]
+# X = dataset.loc[:, ["Alanine transaminase", "Hemoglobin", "Red blood Cells", "Lymphocytes", "Proteina C reativa mg/dL", "Platelets", "Mean platelet volume ", "Red blood Cells", "Lymphocytes", "Alkaline phosphatase"]]
+# X = dataset.loc[:, ["Sodium", "Alanine transaminase", "Hemoglobin", "Red blood Cells", "Lymphocytes", "Proteina C reativa mg/dL", "Platelets", "Mean platelet volume ", "Red blood Cells", "Lymphocytes"]]
+# X = dataset.loc[:, ["Patient age quantile", "Patient addmited to semi-intensive unit (1=yes, 0=no)", "Patient addmited to intensive care unit (1=yes, 0=no)", "Hematocrit", "Hemoglobin", "Alanine transaminase", "Aspartate transaminase", "Hb saturation (arterial blood gases)", "Creatinine", "Potassium"]]
+# X = dataset.loc[:, ["Patient age quantile", "Hematocrit", "Proteina C reativa mg/dL", "Platelets", "Proteina C reativa mg/dL", "Red blood Cells", "Monocytes", "Leukocytes", "Eosinophils", "Hemoglobin"]]
+# X = dataset.loc[:, ["Mean corpuscular hemoglobin concentration (MCHC)", "Leukocytes", "Basophils", "Mean corpuscular hemoglobin (MCH)", "Eosinophils", "Hb saturation (venous blood gas analysis)", "Base excess (venous blood gas analysis)", "pH (arterial blood gas analysis)", "Total CO2 (arterial blood gas analysis)", "Aspartate transaminase", "Proteina C reativa mg/dL", "Urea", "ctO2 (arterial blood gas analysis)", "Neutrophils", "pCO2 (venous blood gas analysis)", "Mean corpuscular volume (MCV)", "Monocytes", "Red blood cell distribution width (RDW)", "Gamma-glutamyltransferase ", "Total Bilirubin", "Sodium", "Alanine transaminase", "Hemoglobin", "Red blood Cells", "Lymphocytes", "Proteina C reativa mg/dL", "Platelets", "Mean platelet volume ", "Red blood Cells", "Lymphocytes", "Patient age quantile", "Patient addmited to semi-intensive unit (1=yes, 0=no)", "Patient addmited to intensive care unit (1=yes, 0=no)", "Hematocrit", "Hemoglobin", "Alanine transaminase", "Aspartate transaminase", "Hb saturation (arterial blood gases)", "Creatinine", "Potassium"]]
+# X = dataset.loc[:, ["Influenza A", "Influenza B", "Parainfluenza 1", "CoronavirusNL63", "Rhinovirus/Enterovirus",  "Coronavirus HKU1", "Parainfluenza 3", "Chlamydophila pneumoniae", "Adenovirus"]]
+
+# nomes = ["Hemoglobin", "Red blood Cells", "Lymphocytes", "Proteina C reativa mg/dL", "Alanine transaminase", "Aspartate transaminase", "Lactic Dehydrogenase", "Albumin", "Hb saturation (arterial blood gases)", "pCO2 (arterial blood gas analysis)"]
+# nomes = ["Patient age quantile", "Patient addmited to regular ward (1=yes, 0=no)", "Patient addmited to semi-intensive unit (1=yes, 0=no)", "Patient addmited to intensive care unit (1=yes, 0=no)", "Hematocrit", "Hemoglobin", "Platelets", "Mean platelet volume", "Red blood Cells", "Lymphocytes"]
+# nomes = ["Mean corpuscular hemoglobin concentration (MCHC)", "Leukocytes", "Basophils", "Mean corpuscular hemoglobin (MCH)", "Eosinophils", "Mean corpuscular volume (MCV)", "Monocytes", "Red blood cell distribution width (RDW)", "Serum Glucose", "Respiratory Syncytial Virus"]
+# nomes = ["Influenza A", "Influenza B", "Parainfluenza 1", "CoronavirusNL63", "Rhinovirus/Enterovirus", "Mycoplasma pneumoniae", "Coronavirus HKU1", "Parainfluenza 3", "Chlamydophila pneumoniae", "Adenovirus"]    # ERRO
+# nomes = ["Parainfluenza 4", "Coronavirus229E", "CoronavirusOC43", "Inf A H1N1 2009", "Bordetella pertussis", "Metapneumovirus", "Parainfluenza 2", "Neutrophils", "Urea", "Proteina C reativa mg/dL"]
+# nomes = ["Creatinine", "Potassium", "Sodium", "Influenza B, rapid test", "Influenza A, rapid test", "Alanine transaminase", "Aspartate transaminase", "Gamma-glutamyltransferase ", "Total Bilirubin", "Direct Bilirubin"]
+# nomes = ["Indirect Bilirubin", "Alkaline phosphatase", "Ionized calcium ", "Strepto A", "Magnesium", "pCO2 (venous blood gas analysis)", "Hb saturation (venous blood gas analysis)", "Base excess (venous blood gas analysis)", "pO2 (venous blood gas analysis)", "Fio2 (venous blood gas analysis)"]
+# nomes = ["Total CO2 (venous blood gas analysis)", "pH (venous blood gas analysis)", "HCO3 (venous blood gas analysis)", "Rods #", "Segmented", "Promyelocytes", "Metamyelocytes", "Myelocytes", "Myeloblasts", "Urine - Esterase"]    # ERRO
+# nomes = ["Urine - Aspect", "Urine - pH", "Urine - Hemoglobin", "Urine - Bile pigments", "Urine - Ketone Bodies", "Urine - Nitrite", "Urine - Density", "Urine - Urobilinogen", "Urine - Protein", "Urine - Sugar"]    # ERRO
+# nomes = ["Urine - Leukocytes", "Urine - Crystals", "Urine - Red blood cells", "Urine - Hyaline cylinders", "Urine - Granular cylinders", "Urine - Yeasts", "Urine - Color", "Partial thromboplastin time (PTT) ", "Relationship (Patient/Normal)", "International normalized ratio (INR)"]    # ERRO
+# nomes = ["Lactic Dehydrogenase", "Prothrombin time (PT), Activity", "Vitamin B12", "Creatine phosphokinase (CPK) ", "Ferritin", "Arterial Lactic Acid", "Lipase dosage", "D-Dimer", "Albumin", "Hb saturation (arterial blood gases)"]  # ERRO
+# nomes = ["pCO2 (arterial blood gas analysis)", "Base excess (arterial blood gas analysis)", "pH (arterial blood gas analysis)", "Total CO2 (arterial blood gas analysis)", "HCO3 (arterial blood gas analysis)", "pO2 (arterial blood gas analysis)", "Arteiral Fio2", "Phosphor", "ctO2 (arterial blood gas analysis)"]
+# nomes = ["Neutrophils", "Urea", "Proteina C reativa mg/dL", "Creatinine", "Potassium", "Sodium", "Alanine transaminase", "Aspartate transaminase", "Gamma-glutamyltransferase ", "Total Bilirubin"]
+# nomes = ["Mean corpuscular hemoglobin concentration (MCHC)", "Leukocytes", "Basophils", "Mean corpuscular hemoglobin (MCH)", "Eosinophils", "Mean corpuscular volume (MCV)", "Monocytes", "Red blood cell distribution width (RDW)", "Serum Glucose", "pCO2 (arterial blood gas analysis)"]
+# nomes = ["Patient age quantile", "Patient addmited to semi-intensive unit (1=yes, 0=no)", "Patient addmited to intensive care unit (1=yes, 0=no)", "Hematocrit", "Hemoglobin", "Platelets", "Mean platelet volume ", "Red blood Cells", "Lymphocytes", "Indirect Bilirubin", "Alkaline phosphatase"]
+# nomes = ["Ionized calcium ", "Magnesium", "pCO2 (venous blood gas analysis)", "Hb saturation (venous blood gas analysis)", "Base excess (venous blood gas analysis)", "pO2 (venous blood gas analysis)", "Base excess (arterial blood gas analysis)", "pH (arterial blood gas analysis)", "Total CO2 (arterial blood gas analysis)", "HCO3 (arterial blood gas analysis)"]
+# nomes = ["pO2 (arterial blood gas analysis)", "ctO2 (arterial blood gas analysis)", "Neutrophils", "Urea", "Proteina C reativa mg/dL", "Creatinine", "Potassium", "Sodium", "Alanine transaminase", "Aspartate transaminase"]
+# nomes = ["Mean corpuscular hemoglobin concentration (MCHC)", "Leukocytes", "Basophils", "Mean corpuscular hemoglobin (MCH)", "Eosinophils", "Mean corpuscular volume (MCV)", "Monocytes", "Red blood cell distribution width (RDW)", "Gamma-glutamyltransferase ", "Total Bilirubin"]
+# nomes = ["Ionized calcium ", "Magnesium", "pCO2 (venous blood gas analysis)", "Hb saturation (venous blood gas analysis)", "Base excess (venous blood gas analysis)", "pO2 (venous blood gas analysis)", "pH (arterial blood gas analysis)", "Total CO2 (arterial blood gas analysis)", "HCO3 (arterial blood gas analysis)", "Aspartate transaminase"]
+# nomes = ["ctO2 (arterial blood gas analysis)", "Neutrophils", "pCO2 (venous blood gas analysis)", "Hb saturation (venous blood gas analysis)", "Base excess (venous blood gas analysis)", "pO2 (venous blood gas analysis)", "pH (arterial blood gas analysis)", "Total CO2 (arterial blood gas analysis)", "HCO3 (arterial blood gas analysis)", "Aspartate transaminase"]
+# nomes = ["Urea", "ctO2 (arterial blood gas analysis)", "Neutrophils", "pCO2 (venous blood gas analysis)", "Hb saturation (venous blood gas analysis)", "Base excess (venous blood gas analysis)", "pO2 (venous blood gas analysis)", "pH (arterial blood gas analysis)", "Total CO2 (arterial blood gas analysis)", "Aspartate transaminase"]
+# nomes = ["Proteina C reativa mg/dL", "Urea", "ctO2 (arterial blood gas analysis)", "Neutrophils", "pCO2 (venous blood gas analysis)", "Hb saturation (venous blood gas analysis)", "Base excess (venous blood gas analysis)", "pH (arterial blood gas analysis)", "Total CO2 (arterial blood gas analysis)", "Aspartate transaminase"]
+# nomes = ["Hemoglobin", "Red blood Cells", "Lymphocytes", "Proteina C reativa mg/dL", "Alanine transaminase", "Aspartate transaminase", "Lactic Dehydrogenase", "Hb saturation (arterial blood gases)", "Creatinine", "Potassium"]
+# nomes = ["Sodium", "Hemoglobin", "Red blood Cells", "Lymphocytes", "Proteina C reativa mg/dL", "Alanine transaminase", "Aspartate transaminase", "Hb saturation (arterial blood gases)", "Creatinine", "Potassium"]
+# nomes = ["Mean corpuscular hemoglobin concentration (MCHC)", "Leukocytes", "Basophils", "Mean corpuscular hemoglobin (MCH)", "Eosinophils", "Hb saturation (venous blood gas analysis)", "Base excess (venous blood gas analysis)", "pH (arterial blood gas analysis)", "Total CO2 (arterial blood gas analysis)", "Aspartate transaminase"]
+# nomes = ["Proteina C reativa mg/dL", "Urea", "ctO2 (arterial blood gas analysis)", "Neutrophils", "pCO2 (venous blood gas analysis)", "Mean corpuscular volume (MCV)", "Monocytes", "Red blood cell distribution width (RDW)", "Gamma-glutamyltransferase ", "Total Bilirubin"]
+# nomes = ["Alanine transaminase", "Hemoglobin", "Red blood Cells", "Lymphocytes", "Proteina C reativa mg/dL", "Platelets", "Mean platelet volume ", "Red blood Cells", "Lymphocytes", "Alkaline phosphatase"]
+# nomes = ["Sodium", "Alanine transaminase", "Hemoglobin", "Red blood Cells", "Lymphocytes", "Proteina C reativa mg/dL", "Platelets", "Mean platelet volume ", "Red blood Cells", "Lymphocytes"]
+# nomes = ["Patient age quantile", "Patient addmited to semi-intensive unit (1=yes, 0=no)", "Patient addmited to intensive care unit (1=yes, 0=no)", "Hematocrit", "Hemoglobin", "Alanine transaminase", "Aspartate transaminase", "Hb saturation (arterial blood gases)", "Creatinine", "Potassium"]
+# nomes = ["Patient age quantile", "Hematocrit", "Proteina C reativa mg/dL", "Platelets", "Proteina C reativa mg/dL", "Red blood Cells", "Monocytes", "Leukocytes", "Eosinophils", "Hemoglobin"]
+# nomes = ["Mean corpuscular hemoglobin concentration (MCHC)", "Leukocytes", "Basophils", "Mean corpuscular hemoglobin (MCH)", "Eosinophils", "Hb saturation (venous blood gas analysis)", "Base excess (venous blood gas analysis)", "pH (arterial blood gas analysis)", "Total CO2 (arterial blood gas analysis)", "Aspartate transaminase", "Proteina C reativa mg/dL", "Urea", "ctO2 (arterial blood gas analysis)", "Neutrophils", "pCO2 (venous blood gas analysis)", "Mean corpuscular volume (MCV)", "Monocytes", "Red blood cell distribution width (RDW)", "Gamma-glutamyltransferase ", "Total Bilirubin", "Sodium", "Alanine transaminase", "Hemoglobin", "Red blood Cells", "Lymphocytes", "Proteina C reativa mg/dL", "Platelets", "Mean platelet volume ", "Red blood Cells", "Lymphocytes", "Patient age quantile", "Patient addmited to semi-intensive unit (1=yes, 0=no)", "Patient addmited to intensive care unit (1=yes, 0=no)", "Hematocrit", "Hemoglobin", "Alanine transaminase", "Aspartate transaminase", "Hb saturation (arterial blood gases)", "Creatinine", "Potassium"]
+# nomes = ["Influenza A", "Influenza B", "Parainfluenza 1", "CoronavirusNL63", "Rhinovirus/Enterovirus",  "Coronavirus HKU1", "Parainfluenza 3", "Chlamydophila pneumoniae", "Adenovirus"]
